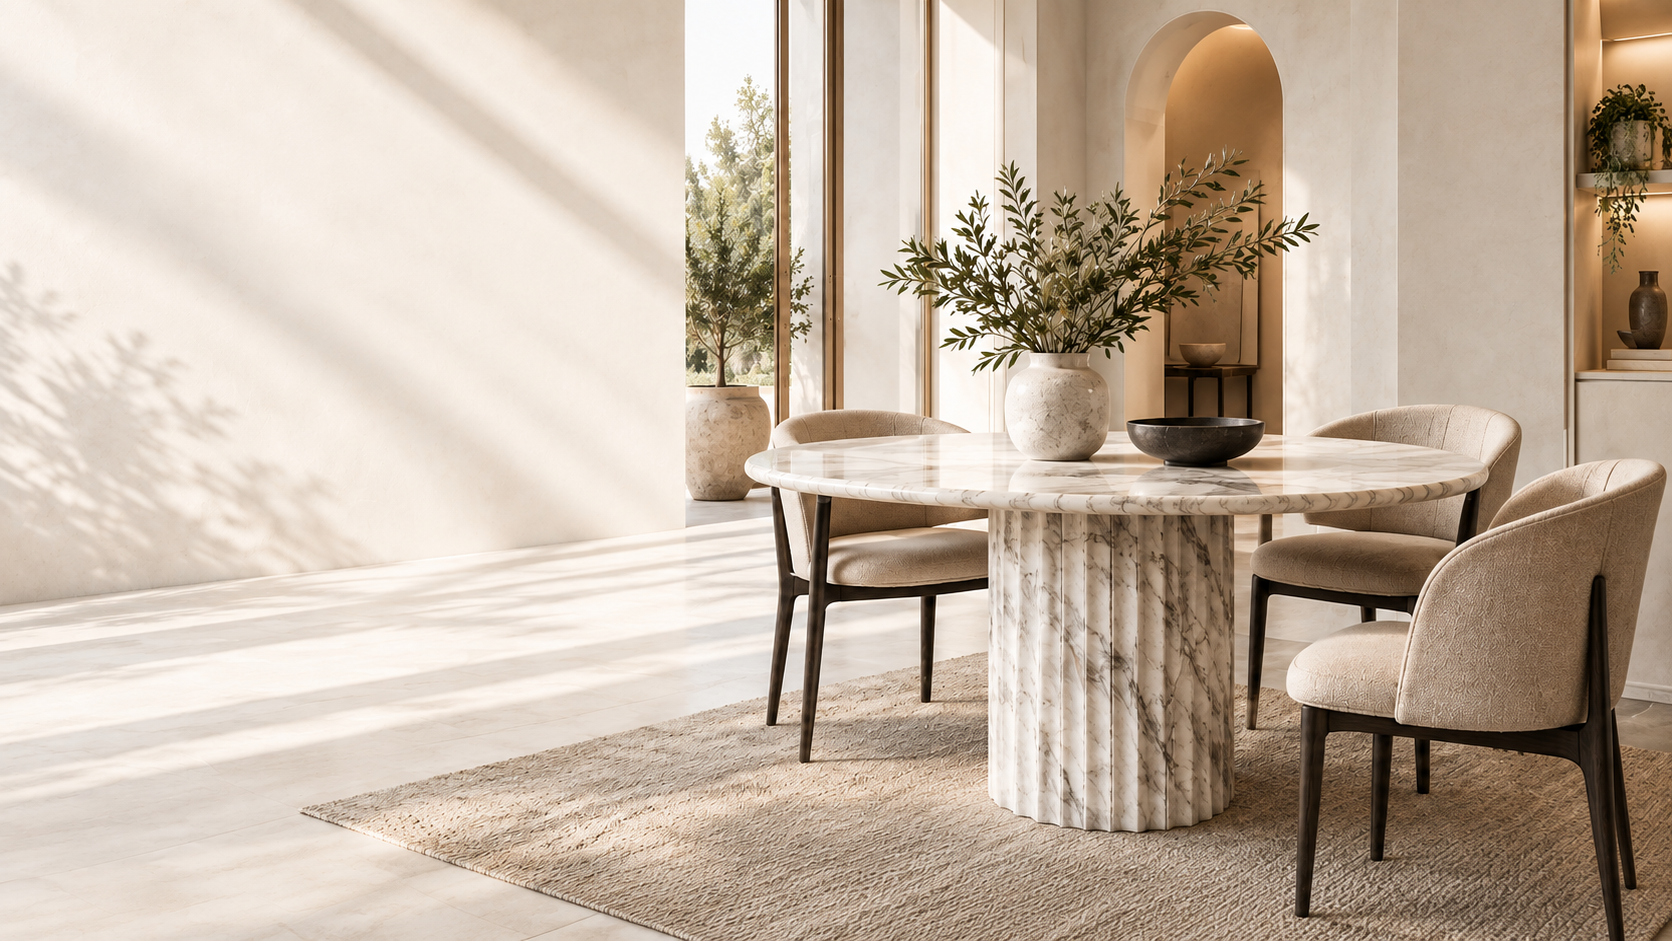
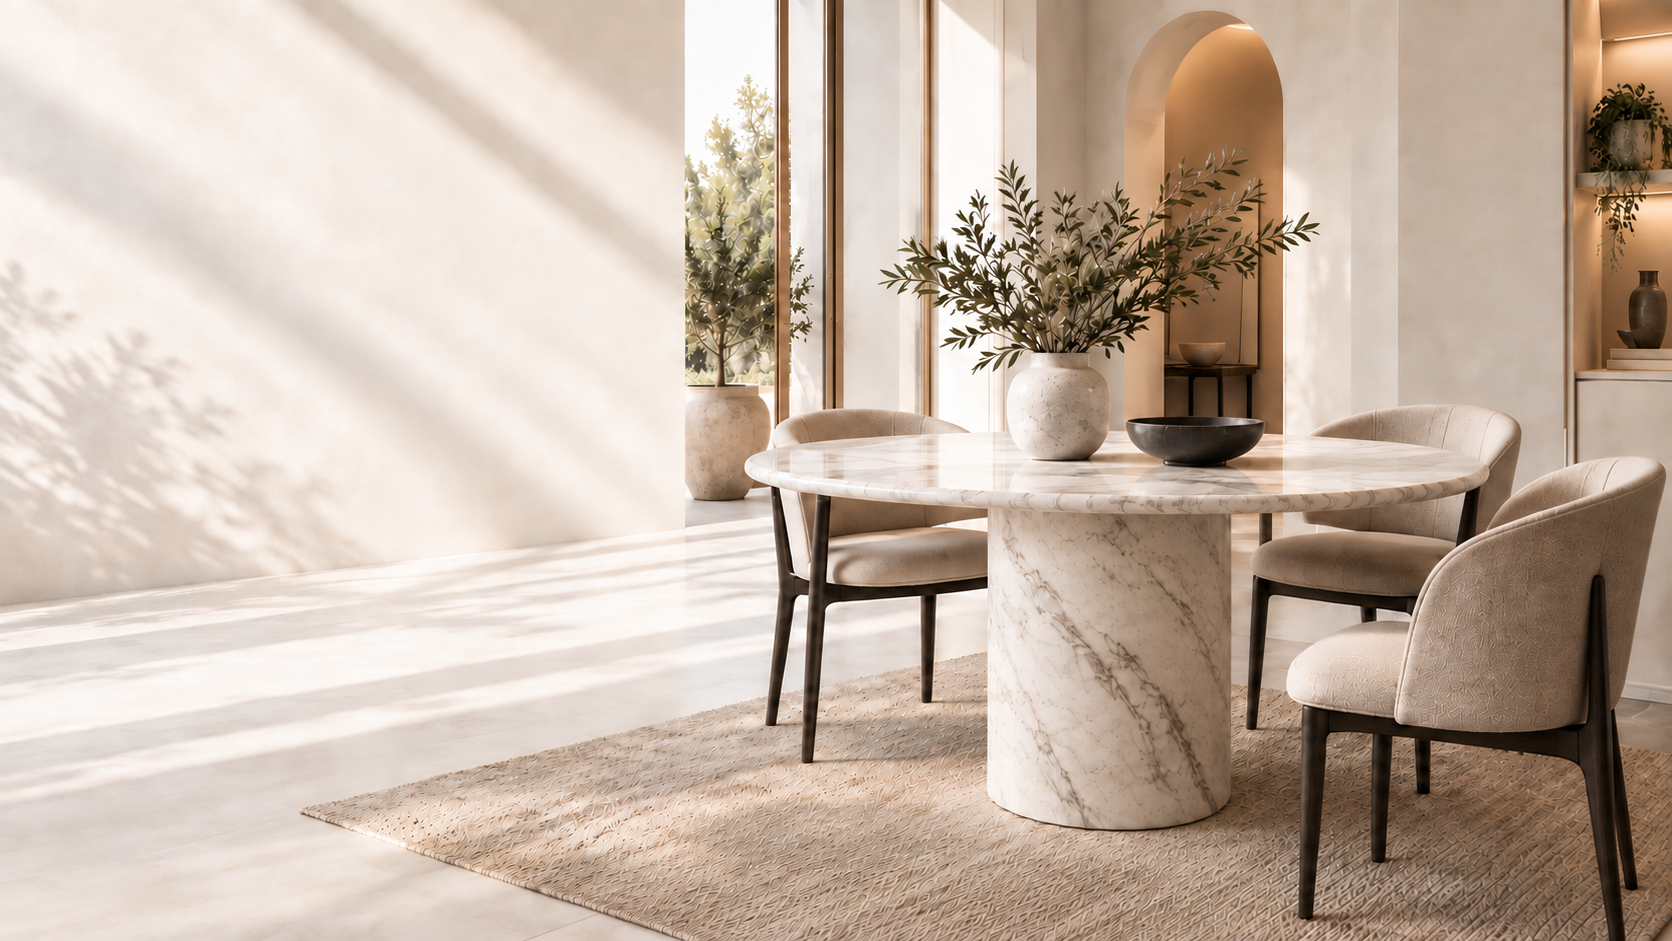
create products section

diff --git a/index.html b/index.html
@@ -156,9 +156,9 @@
                     </div>
 
                     <div class="product-info">
-                        <h3></h3>
-                        <span></span>
-                        <strong></strong>
+                        <h3>Alba Mermer Masa</h3>
+                        <span>100 cm çap • Muğla Beyazı • Mermer Ayak</span>
+                        <strong>49.900₺</strong>
                     </div>
                 </a>
 
@@ -168,9 +168,9 @@
                     </div>
 
                     <div class="product-info">
-                        <h3></h3>
-                        <span></span>
-                        <strong></strong>
+                        <h3>Terra Mermer Masa</h3>
+                        <span>100 cm çap • Akhisar Beji • Ahşap Ayak</span>
+                        <strong>39.900₺</strong>
                     </div>
                 </a>
 
@@ -180,9 +180,9 @@
                     </div>
 
                     <div class="product-info">
-                        <h3></h3>
-                        <span></span>
-                        <strong></strong>
+                        <h3>Rome Traverten Masa</h3>
+                        <span>100 cm çap • Traverten • Traverten Ayak</span>
+                        <strong>44.900₺</strong>
                     </div>
                 </a>
 
@@ -192,18 +192,80 @@
                     </div>
 
                     <div class="product-info">
-                        <h3></h3>
-                        <span></span>
-                        <strong></strong>
+                        <h3>Guatemala Mermer Masa</h3>
+                        <span>100cm çap • Verde Guatemala • Ahşap Ayak</span>
+                        <strong>44.900₺</strong>
                     </div>
                 </a>
 
 
 
             </div>
-
-
         </section>
+<section class="trust-strip">
+
+    <div class="trust-item">
+
+        <div class="trust-icon">
+            <svg viewBox="0 0 64 64" aria-hidden="true">
+                <path d="M18 20l10-10 8 8-10 10z"></path>
+                <path d="M30 22l18 18"></path>
+                <path d="M46 38l6 6"></path>
+                <path d="M12 26l12-12"></path>
+                <path d="M20 34L8 46"></path>
+            </svg>
+        </div>
+
+        <div class="trust-text">
+            <h3>1. Sınıf İşçilik</h3>
+            <p>Ustalıkla, yıllarca sizinle.</p>
+        </div>
+
+    </div>
+
+    <div class="trust-item">
+
+        <div class="trust-icon">
+            <svg viewBox="0 0 64 64" aria-hidden="true">
+                <path d="M14 20h36"></path>
+                <path d="M20 10h24l10 10-22 34L10 20z"></path>
+                <path d="M20 10l12 44"></path>
+                <path d="M44 10L32 54"></path>
+                <path d="M14 20l18-10 18 10"></path>
+            </svg>
+        </div>
+
+        <div class="trust-text">
+            <h3>Orijinal Mermer</h3>
+            <p>Doğadan, doğrudan size.</p>
+        </div>
+
+    </div>
+
+    <div class="trust-item">
+
+        <div class="trust-icon">
+            <svg viewBox="0 0 64 64" aria-hidden="true">
+                <path d="M8 48V24l14 8v-8l14 8v-8l18 10v14z"></path>
+                <path d="M42 22V10h8v16"></path>
+                <path d="M16 40h4"></path>
+                <path d="M26 40h4"></path>
+                <path d="M36 40h4"></path>
+                <path d="M46 40h4"></path>
+            </svg>
+        </div>
+
+        <div class="trust-text">
+            <h3>Depo Teslim</h3>
+            <p>Güvenli ve hızlı teslimat.</p>
+        </div>
+
+    </div>
+
+</section>
+
+
+
         <!-- <section class="hero-features">
 
             <div class="hero-feature">

diff --git a/style.css b/style.css
@@ -501,7 +501,7 @@ ul {
 }
 
 .product-card:hover img {
-    transform: scale(1.04);
+    transform: scale(1.02);
 }
 
 .product-info {
@@ -525,4 +525,72 @@ ul {
     font-size: 15px;
     font-weight: 600;
     color: #171512;
+}
+
+.trust-strip {
+    max-width: 1400px;
+    margin: 35px auto 0;
+    padding: 26px 0;
+
+    display: grid;
+    grid-template-columns: repeat(3, 1fr);
+
+    border-top: 1px solid #e1dbd3;
+    border-bottom: 1px solid #e1dbd3;
+}
+
+.trust-item {
+    display: flex;
+    align-items: center;
+    justify-content: center;
+
+    gap: 18px;
+    padding: 8px 34px;
+}
+
+.trust-item:not(:last-child) {
+    border-right: 1px solid #ded7cf;
+}
+
+.trust-icon {
+    width: 48px;
+    height: 48px;
+
+    flex-shrink: 0;
+
+    color: #9a7a58;
+}
+
+.trust-icon svg {
+    width: 100%;
+    height: 100%;
+
+    fill: none;
+
+    stroke: currentColor;
+    stroke-width: 2.2;
+
+    stroke-linecap: round;
+    stroke-linejoin: round;
+}
+
+.trust-text h3 {
+    margin: 0 0 4px;
+
+    font-size: 16px;
+    font-weight: 600;
+
+    color: #181512;
+}
+
+.trust-text p {
+    margin: 0;
+
+    font-size: 13px;
+    color: #706a63;
+}
+
+.trust-item:nth-child(2) .trust-icon {
+    width: 52px;
+    height: 44px;
 }
